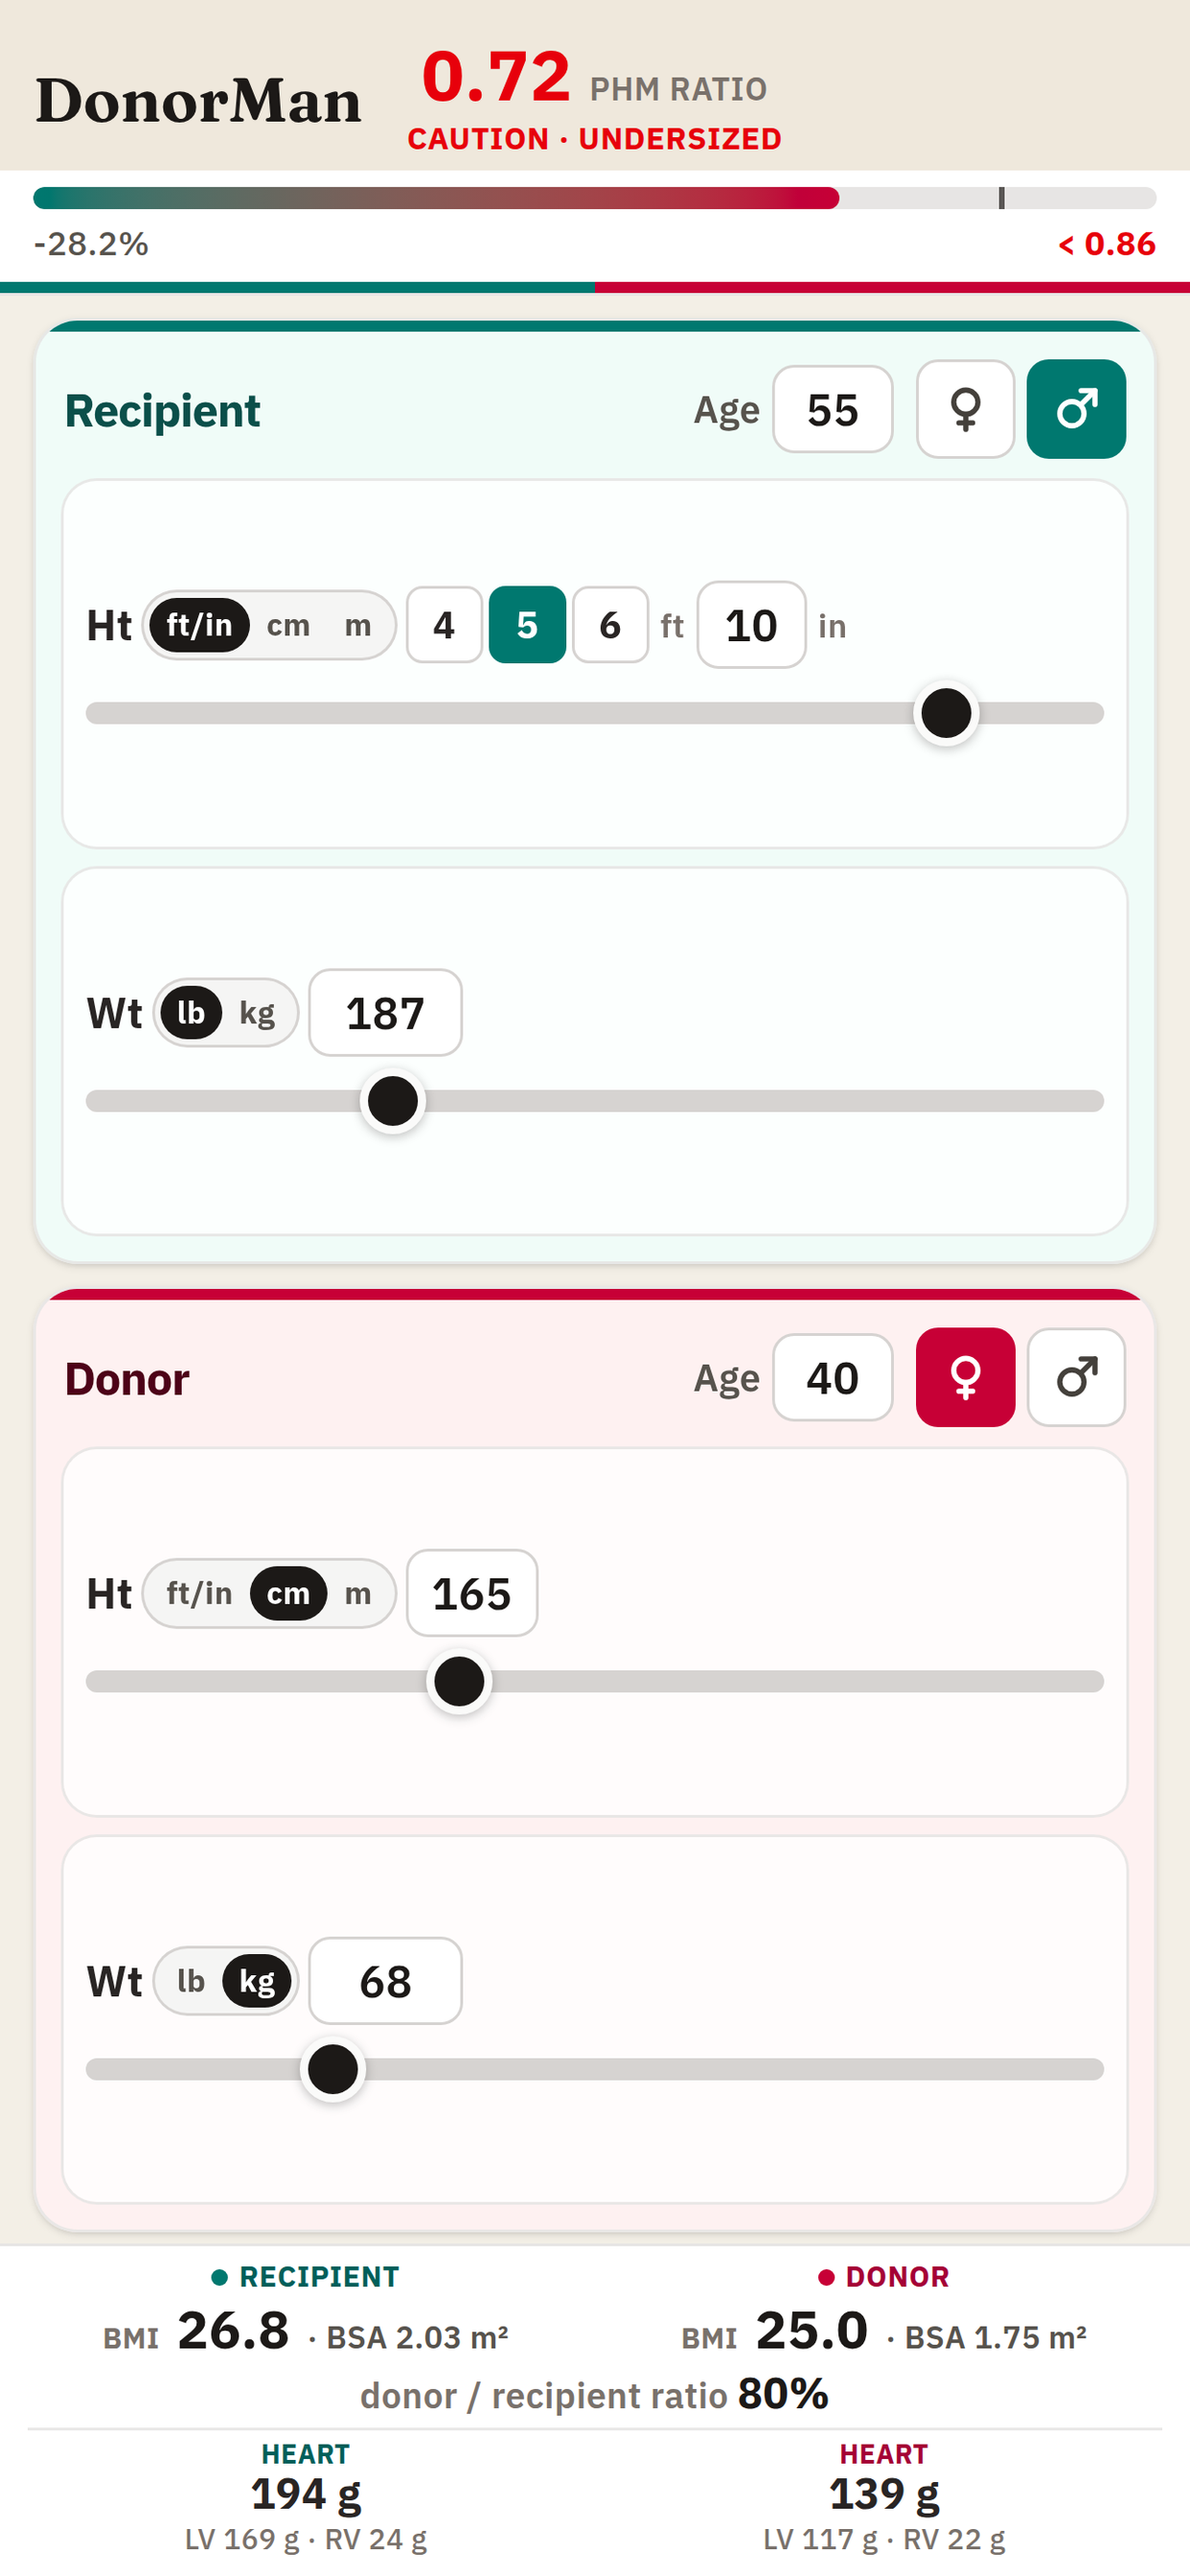
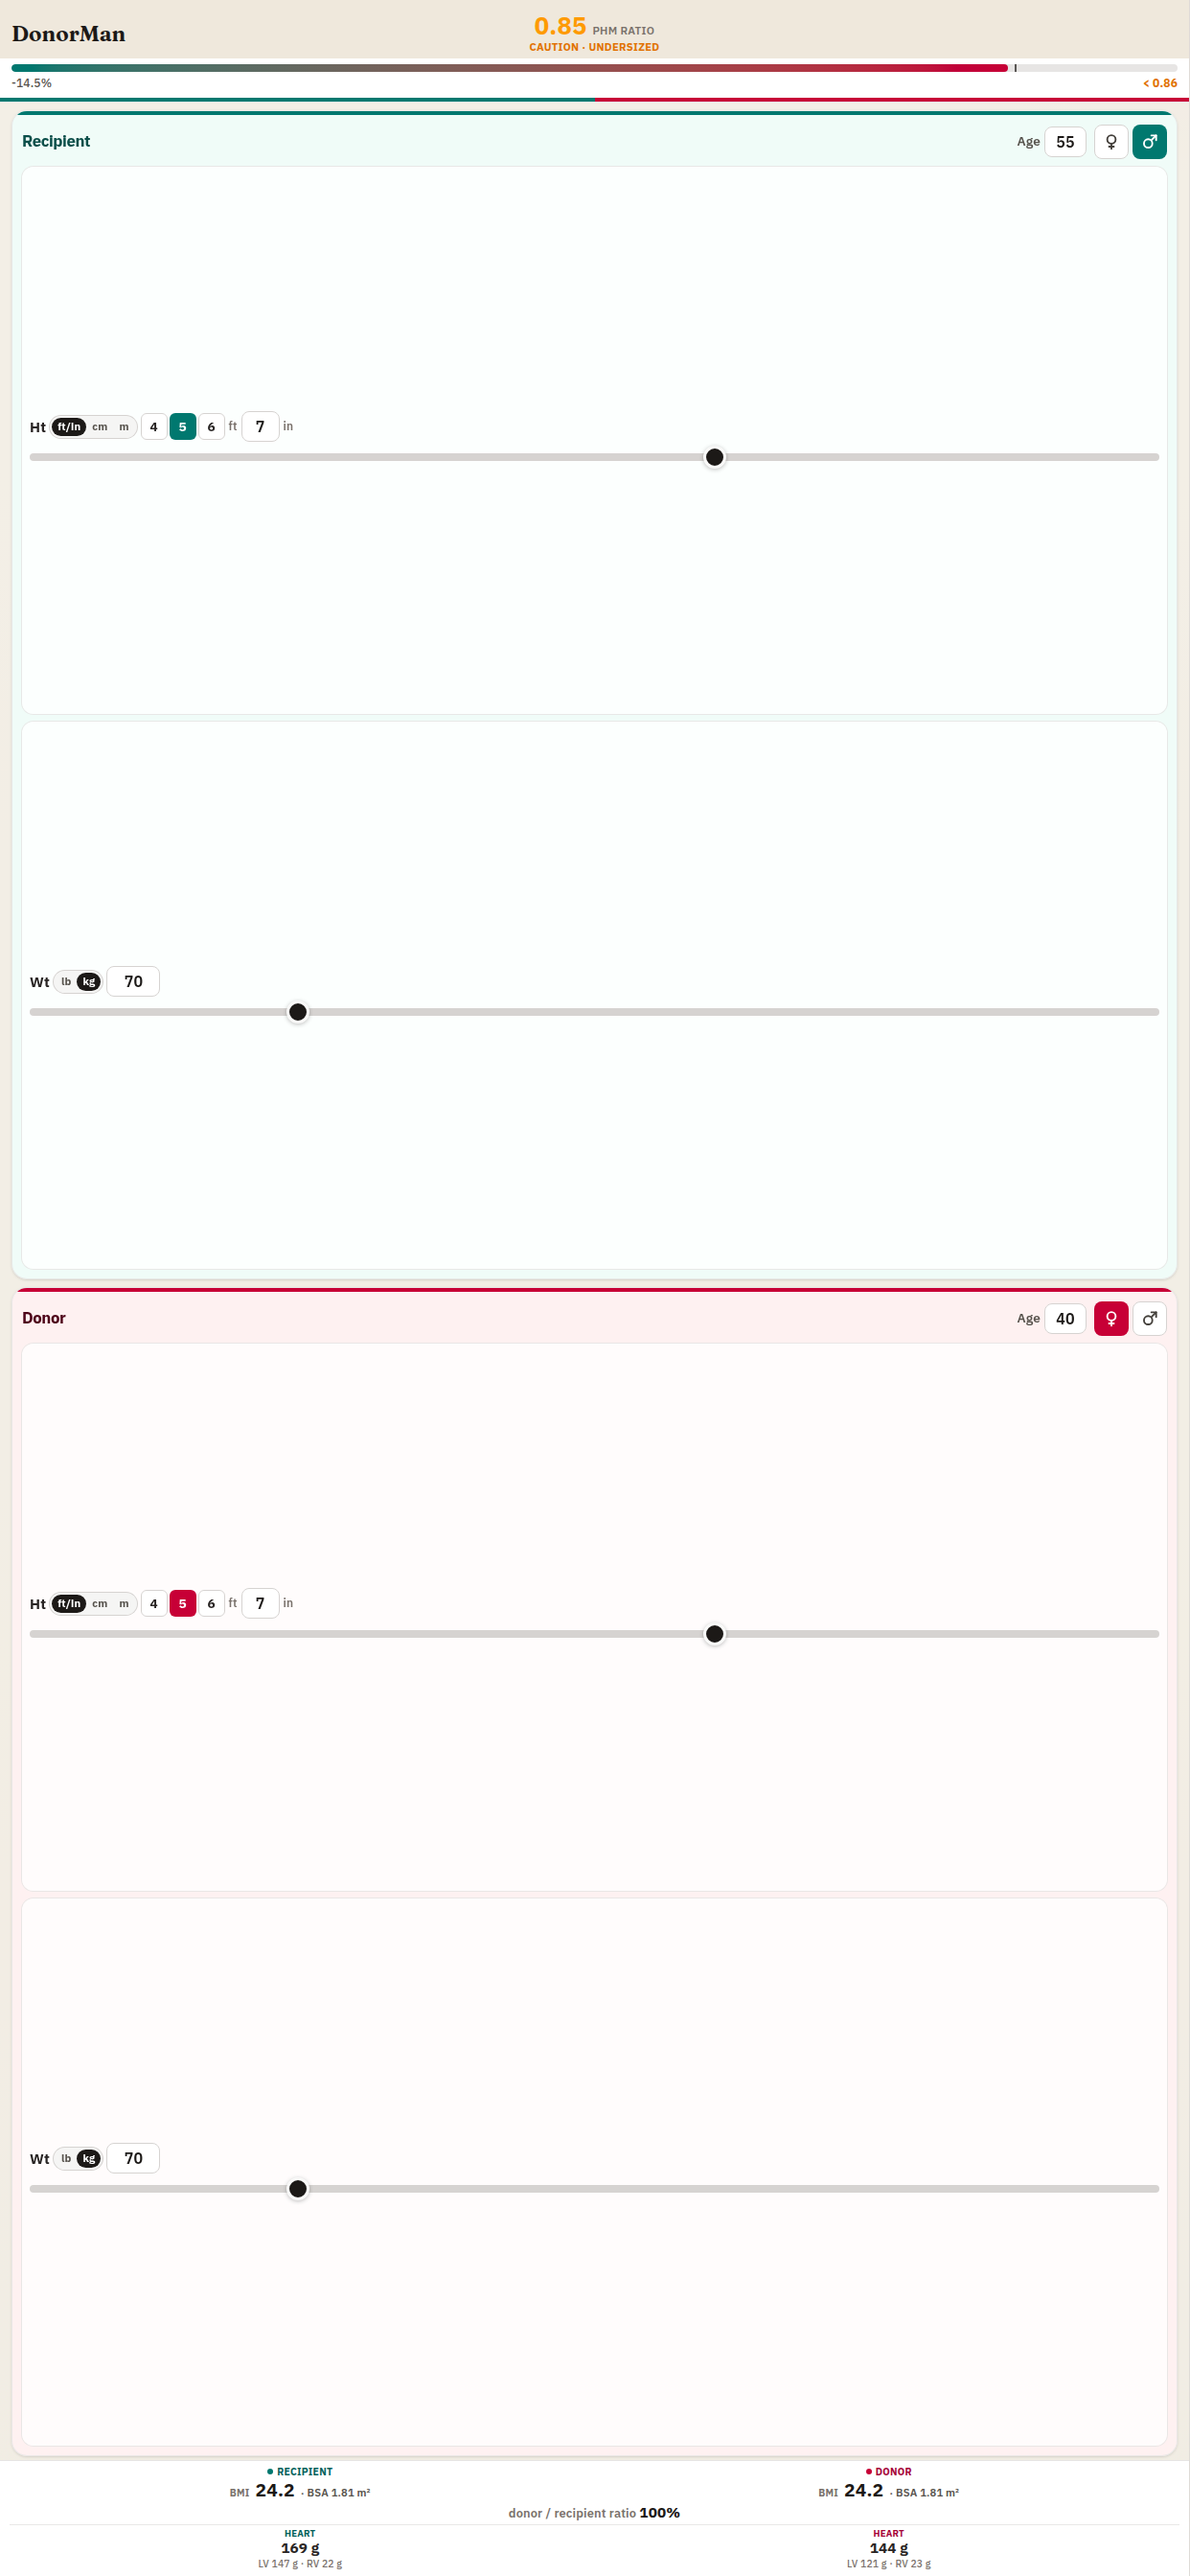
Fix App Store screenshots for medium Dynamic Island slot
Regenerate Connect-ready captures at the required 1206×2622 medium
size (plus large/6.5/iPad), refresh copy for current defaults, and
document which Connect tab accepts each folder.

diff --git a/app-store/README.md b/app-store/README.md
@@ -6,53 +6,53 @@ Apple ID (Connect): **6829261100** · Bundle ID: **`com.docbaran.donorman`**
 
 ## Folder map
 
-| Path | Use |
-| --- | --- |
-| `LISTING.md` | Subtitle, description, keywords, review notes, URLs — paste into Connect |
-| `PRIVACY.md` | Privacy policy source (also published at `/privacy/` on GitHub Pages) |
-| `icon/AppIcon-1024.png` | 1024×1024 App Store icon (no alpha) |
-| `screenshots/iphone-6.7/` | **Required** iPhone 6.7" (1290×2796) — upload these first |
-| `screenshots/iphone-6.5/` | iPhone 6.5" (1242×2688) |
-| `screenshots/ipad-12.9/` | iPad 12.9" / 13" (2048×2732) |
-| `screenshots/marketing/` | Optional framed versions (same pixel sizes) for ads / social |
+| Path | Connect slot | Exact size | Required? |
+| --- | --- | --- | --- |
+| `screenshots/iphone-medium/` | **iPhone with Dynamic Island (medium display)** | **1206 × 2622** | **Yes — upload these first** |
+| `screenshots/iphone-large/` | iPhone with Dynamic Island (large display) | 1290 × 2796 | Optional |
+| `screenshots/iphone-6.5/` | iPhone with Face ID (large display) | 1242 × 2688 | Optional |
+| `screenshots/ipad-13/` | iPad 13" display | 2048 × 2732 | **Yes** (app supports iPad) |
+| `screenshots/marketing/` | Not for Connect | various | Ads / social only |
+| `icon/AppIcon-1024.png` | App Information icon | 1024 × 1024 | If not already from Xcode |
+| `LISTING.md` | Listing copy | — | Paste into Connect |
+| `PRIVACY.md` | Privacy policy source | — | Live at `/privacy/` |
+
+## Why “file dimensions invalid” happens
+
+App Store Connect’s **required** iPhone slot is now **medium Dynamic Island**, which only accepts:
+
+- `1206 × 2622` or `1179 × 2556` (portrait)
+
+Older **1290 × 2796** (6.7") files are valid only in the **large** Dynamic Island slot — not the medium one. Dropping them on the medium tab produces “file dimensions invalid.”
 
 ## Upload checklist (App Store Connect)
 
-1. Open **Apps → DonorMan → App Store → iOS App → 1.0 Prepare for Submission** (or create version 1.0).
-2. **Screenshots**
-   - iPhone 6.7": upload `screenshots/iphone-6.7/01` → `02` → `03` in that order.
-   - iPhone 6.5": upload the matching trio from `screenshots/iphone-6.5/`.
-   - iPad 12.9": upload `screenshots/ipad-12.9/01-phm-matching.png`.
-   - Prefer the **non-framed** folders for Connect; keep `marketing/` for other use.
-3. **Description fields** — copy from `LISTING.md` (subtitle, promotional text, description, keywords, What’s New).
-4. **URLs**
+1. Open **Apps → DonorMan → App Store → iOS App → 1.0 Prepare for Submission**.
+2. **Screenshots — iPhone**
+   - Open the tab **iPhone with Dynamic Island (medium display)**.
+   - Upload, in order, from `screenshots/iphone-medium/`:
+     1. `01-phm-matching.png`
+     2. `02-size-ok.png`
+     3. `03-caution.png`
+   - (Optional) Also fill the large / 6.5" tabs from `iphone-large/` and `iphone-6.5/`.
+3. **Screenshots — iPad**
+   - Open **13" display**.
+   - Upload `screenshots/ipad-13/01-phm-matching.png` (and optionally `02` / `03`).
+4. **Description fields** — copy from `LISTING.md`.
+5. **URLs**
    - Support: `https://docbaran-commits.github.io/donorman/`
    - Privacy Policy: `https://docbaran-commits.github.io/donorman/privacy/`
-   - (Optional) Marketing: same as Support.
-5. **App Privacy** (App Store → App Privacy → Edit): choose **Data Not Collected**.
-6. **Age Rating**: answer the questionnaire; for “Medical/Treatment Information” select the mild/infrequent option if asked.
-7. **Export compliance**: already declared in the app (`ITSAppUsesNonExemptEncryption = false`). Confirm “No” for non-exempt encryption if Connect asks again.
-8. **Build**: select the Codemagic / TestFlight build that processed successfully.
-9. **App Review notes**: paste the block from `LISTING.md`.
-10. Submit for review.
-
-## Privacy URL go-live
-
-The privacy page ships with this PR as:
-
-- Source: `src/app/privacy/page.tsx`
-- Published: `docs/privacy/` on `main` → [https://docbaran-commits.github.io/donorman/privacy/](https://docbaran-commits.github.io/donorman/privacy/)
-
-Merge this PR (or at least publish `docs/privacy/`) **before** submitting for App Review so Apple can open the Privacy Policy URL.
+6. **App Privacy** → **Data Not Collected**.
+7. Attach the TestFlight build, paste review notes from `LISTING.md`, submit.
 
 ## Screenshot map
 
 | File | Story |
 | --- | --- |
-| `01-phm-matching.png` | Default demo — PHM 0.72, caution undersized |
-| `02-size-ok.png` | Size OK band (~0.88) |
-| `03-caution.png` | Severe undersize (~0.52) |
+| `01-phm-matching.png` | Defaults — both 5′7″ / 70 kg (PHM ~0.85, mild caution) |
+| `02-size-ok.png` | Donor heavier — size OK band |
+| `03-caution.png` | Clear undersize caution |
 
-## After merge
+## After pulling these files
 
-No Codemagic rebuild is required for listing assets. Only merge + (if needed) wait for GitHub Pages to update the privacy URL, then finish the Connect form and submit.
+No Codemagic rebuild is required for listing screenshots. Download/pull this folder and upload the **iphone-medium** set into the medium Dynamic Island tab.

diff --git a/app-store/LISTING.md b/app-store/LISTING.md
@@ -100,25 +100,30 @@ No login. No account. No network calls for calculation—values are computed on 
 
 To try the app: open it, adjust recipient and donor height/weight with the sliders or number fields, and watch the PHM ratio and caution label update in the header. Landscape shows recipient and donor side by side.
 
-Demo defaults already show an undersized example (caution). Increase donor weight (or lower recipient weight) to move into the 0.86–1.2 band.
+Defaults are male recipient / female donor at 5′7″ and 70 kg (mild undersize caution from sex difference). Increase donor weight to move into the 0.86–1.2 band.
 ```
 
 ## Screenshots to upload
 
-Upload from `screenshots/` in this folder:
+Upload from `screenshots/` in this folder. Match the **Connect tab name**, not the old inch labels.
 
-### iPhone 6.7" (required) — `screenshots/iphone-6.7/`
+### iPhone with Dynamic Island (medium display) — **required** — `screenshots/iphone-medium/` (1206×2622)
 1. `01-phm-matching.png`
 2. `02-size-ok.png`
 3. `03-caution.png`
 
-Optional framed marketing versions (same pixel size): `screenshots/marketing/*-framed.png`
+### iPhone with Dynamic Island (large display) — optional — `screenshots/iphone-large/` (1290×2796)
+Same three files.
 
-### iPhone 6.5" — `screenshots/iphone-6.5/`
-Same three files (resized).
+### iPhone with Face ID (large display) — optional — `screenshots/iphone-6.5/` (1242×2688)
+Same three files.
 
-### iPad 12.9" / 13" — `screenshots/ipad-12.9/`
+### iPad 13" display — **required** — `screenshots/ipad-13/` (2048×2732)
 1. `01-phm-matching.png`
+2. `02-size-ok.png` (optional)
+3. `03-caution.png` (optional)
+
+Do **not** upload `screenshots/marketing/` into Connect (framed marketing art).
 
 ## App icon
 
